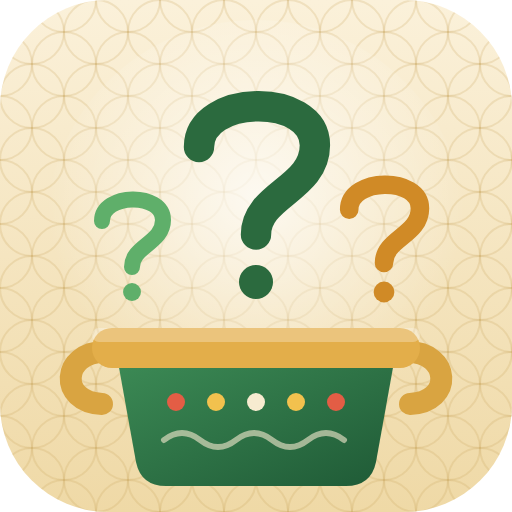
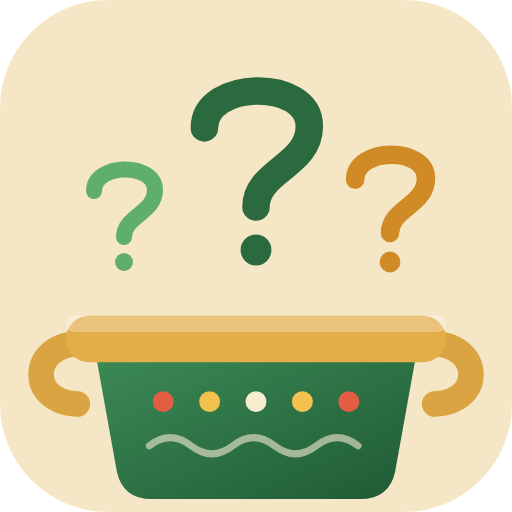
Icona: sfondo uniforme uguale alla schermata di avvio, pentola più grande (v190)
Claude-Session: https://claude.ai/code/session_01TknSCL2Vp1LoYUaQZ1ANF9

diff --git a/service-worker.js b/service-worker.js
@@ -9,7 +9,7 @@
  * l'app continua comunque a funzionare senza connessione.
  */
 
-const VERSIONE = 'checucino-v189';
+const VERSIONE = 'checucino-v190';
 
 const FILE = [
   './',
